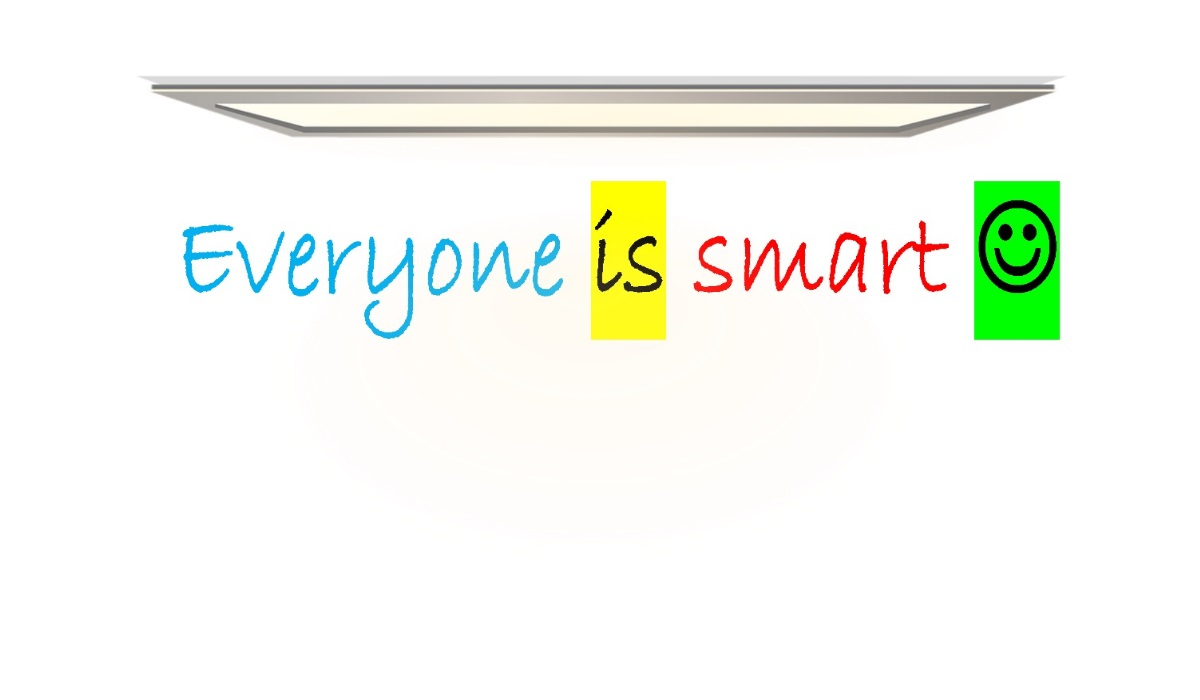
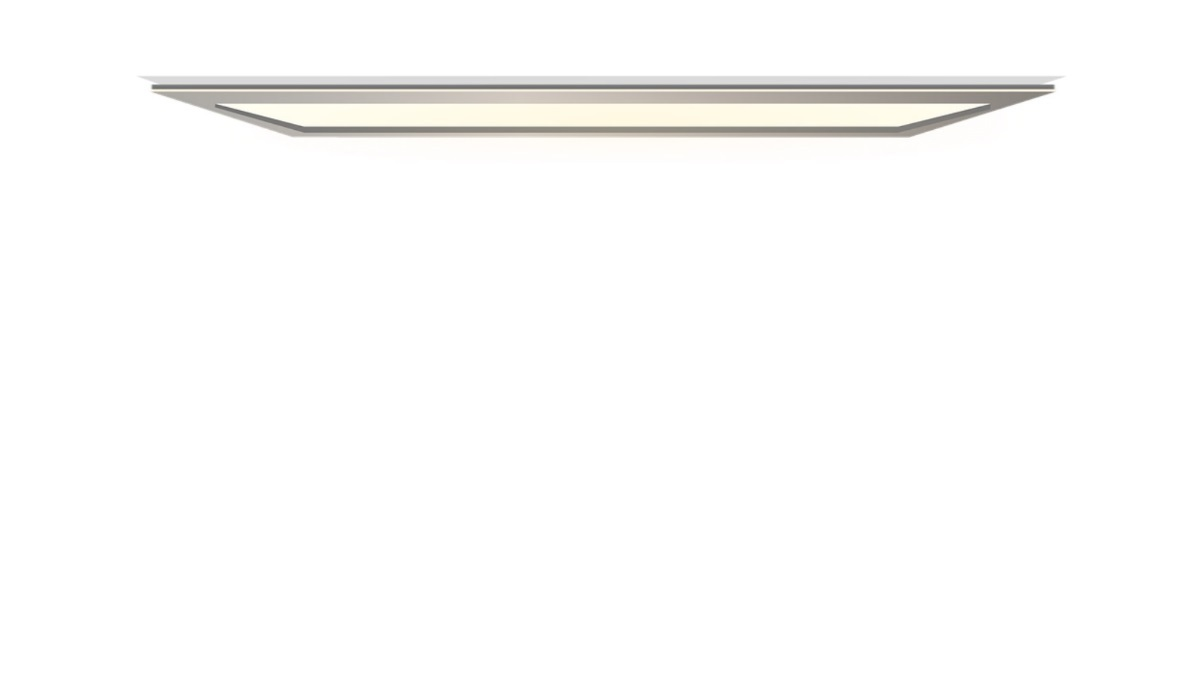
update
+ change the header picture
+ change the header slogan

Changed region(s): [[0.1542, 0.24, 0.8942, 0.51]]

diff --git a/index.html b/index.html
@@ -78,9 +78,9 @@
             <div class="header-content-inner">
                 <!--h1>nm rulleskiskyting<br /> 23 - 25 September 2016</h1-->
                 <!--img src="img/logo.jpg" style="width: 350px;border-style: solid;border-width: 1px;"-->
-                
-                <hr class="light">
-                <hr class="light">
+                <br/>
+                <p style="color:#0080ff; font-family:bradley Hand ITC; font-size:70px; font-weight:bold">Everyone is smart :)</p>
+                <br/><br/><br/><br/><br/><br/>
                 <a href="#Service" class="btn btn-info bg-info  btn-xl page-scroll">You want a web site!</a>
             </div>
         </div>
